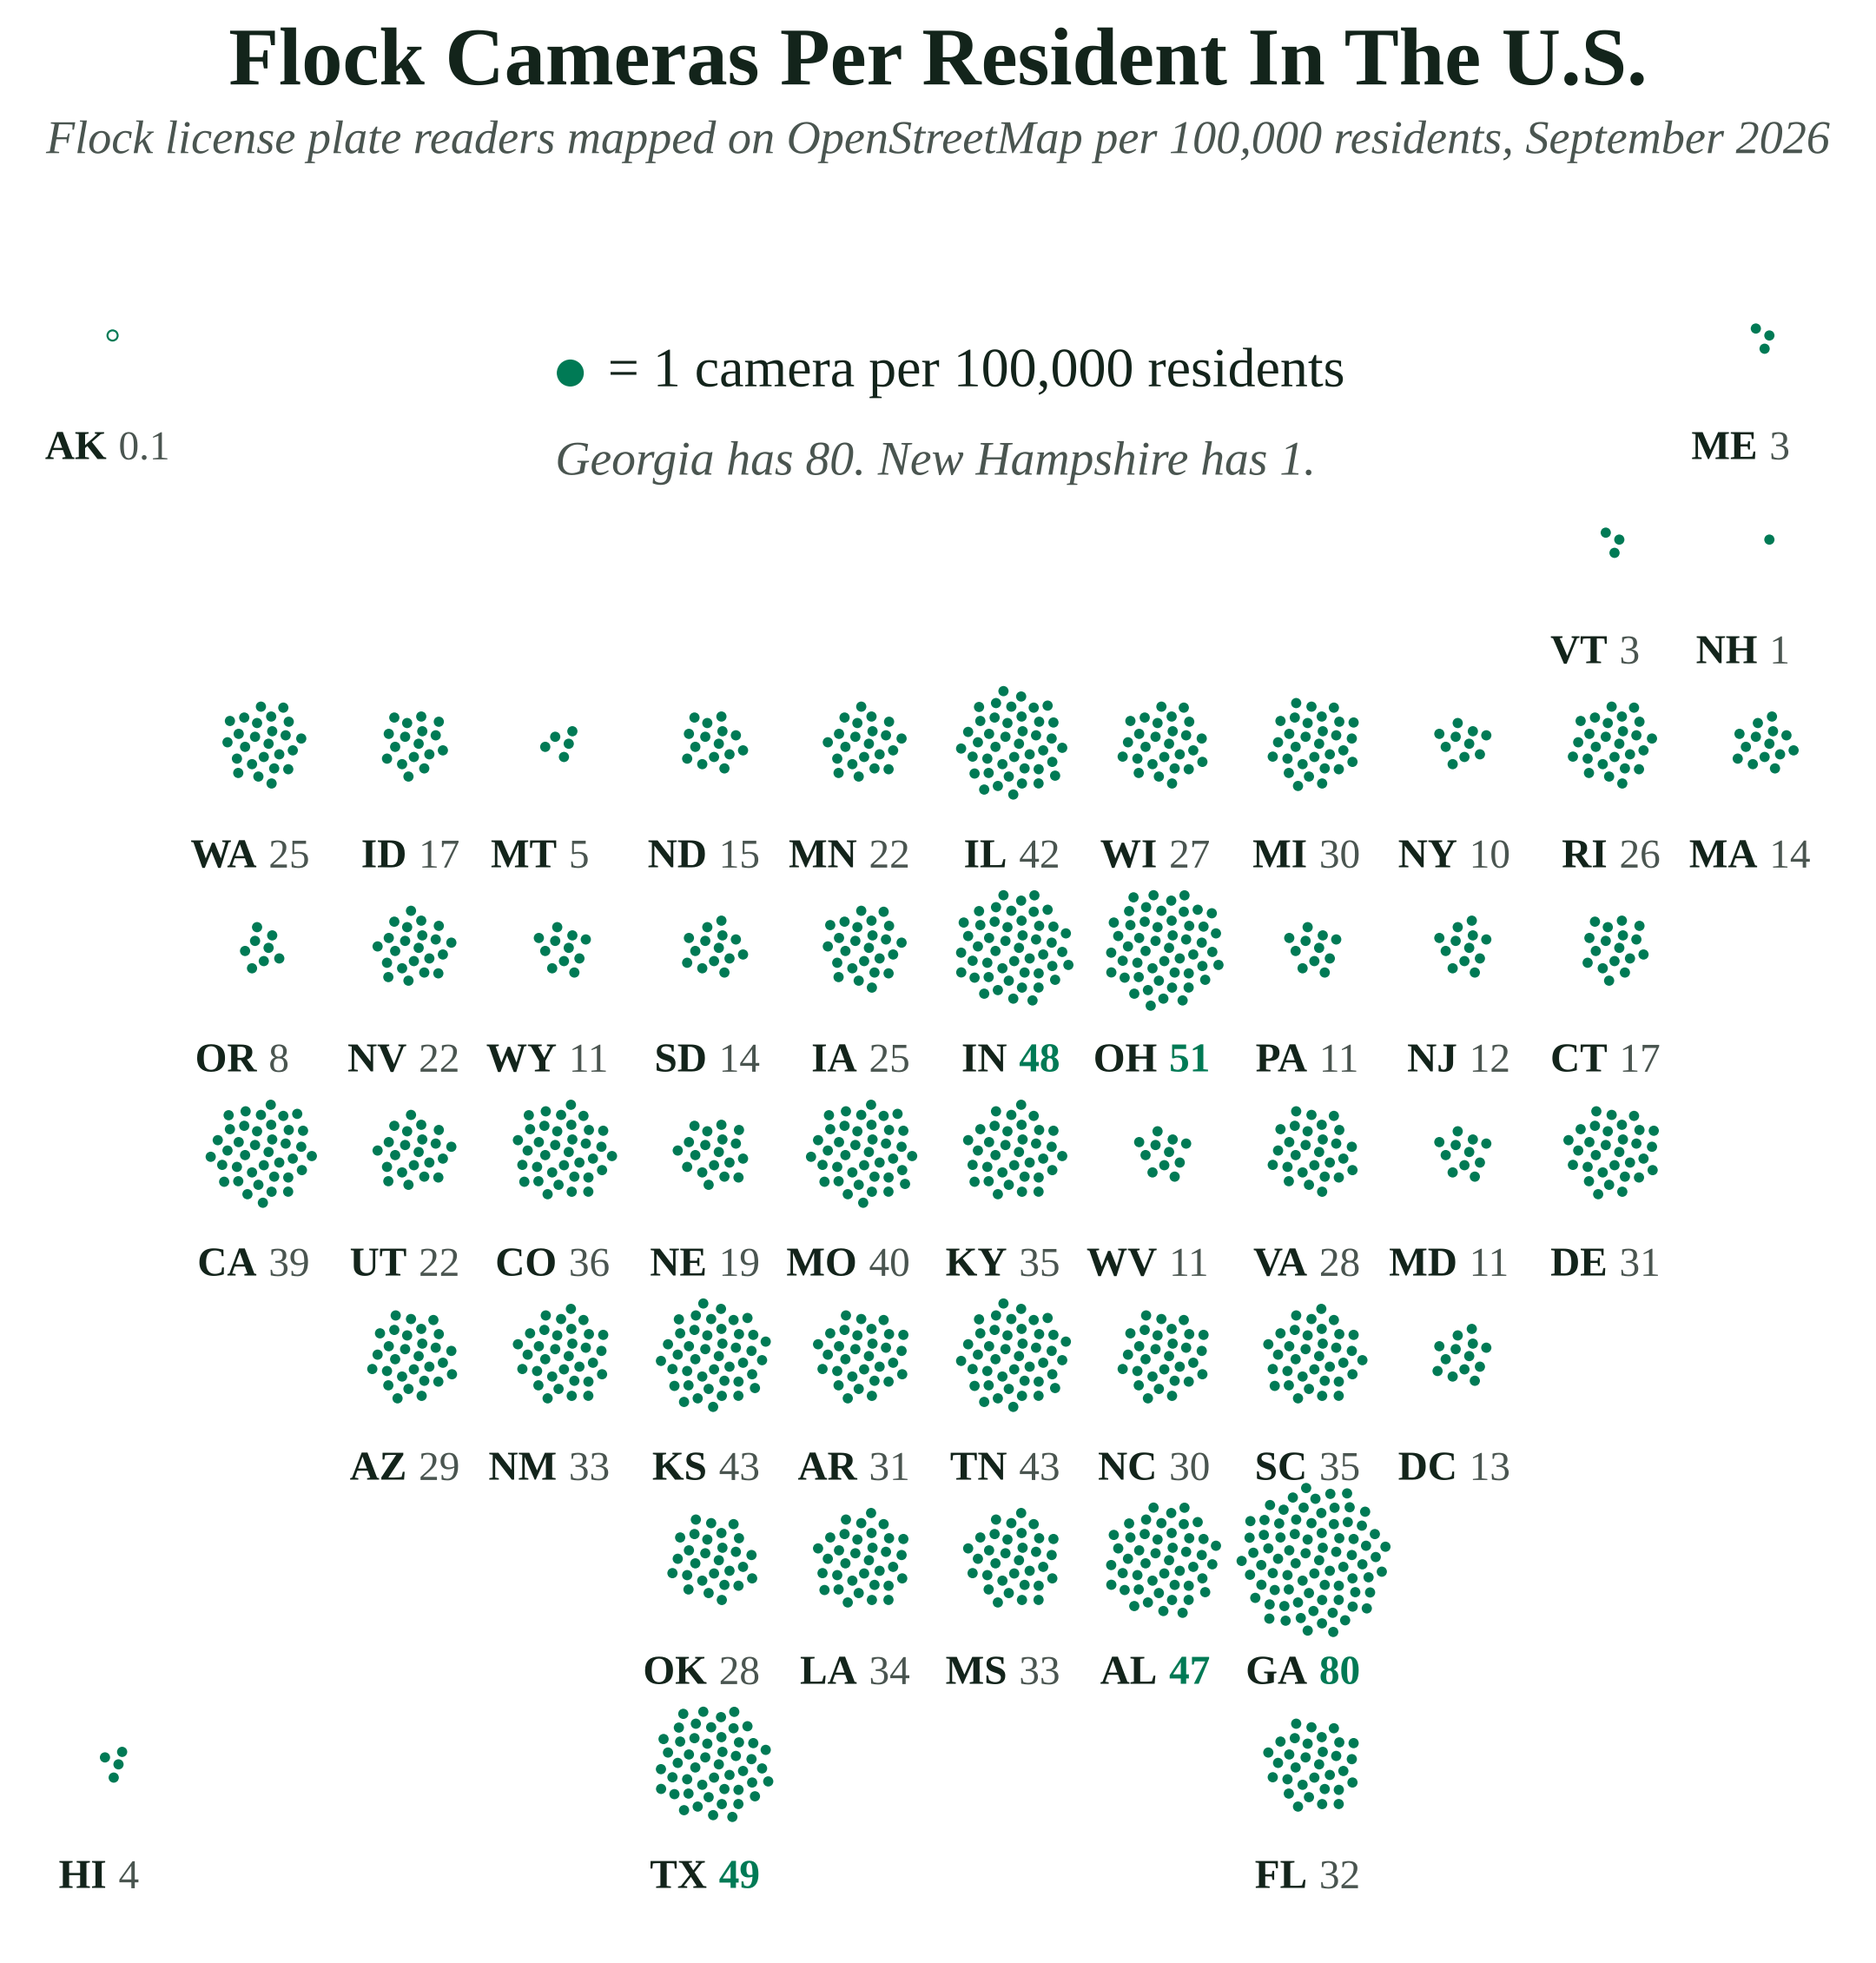
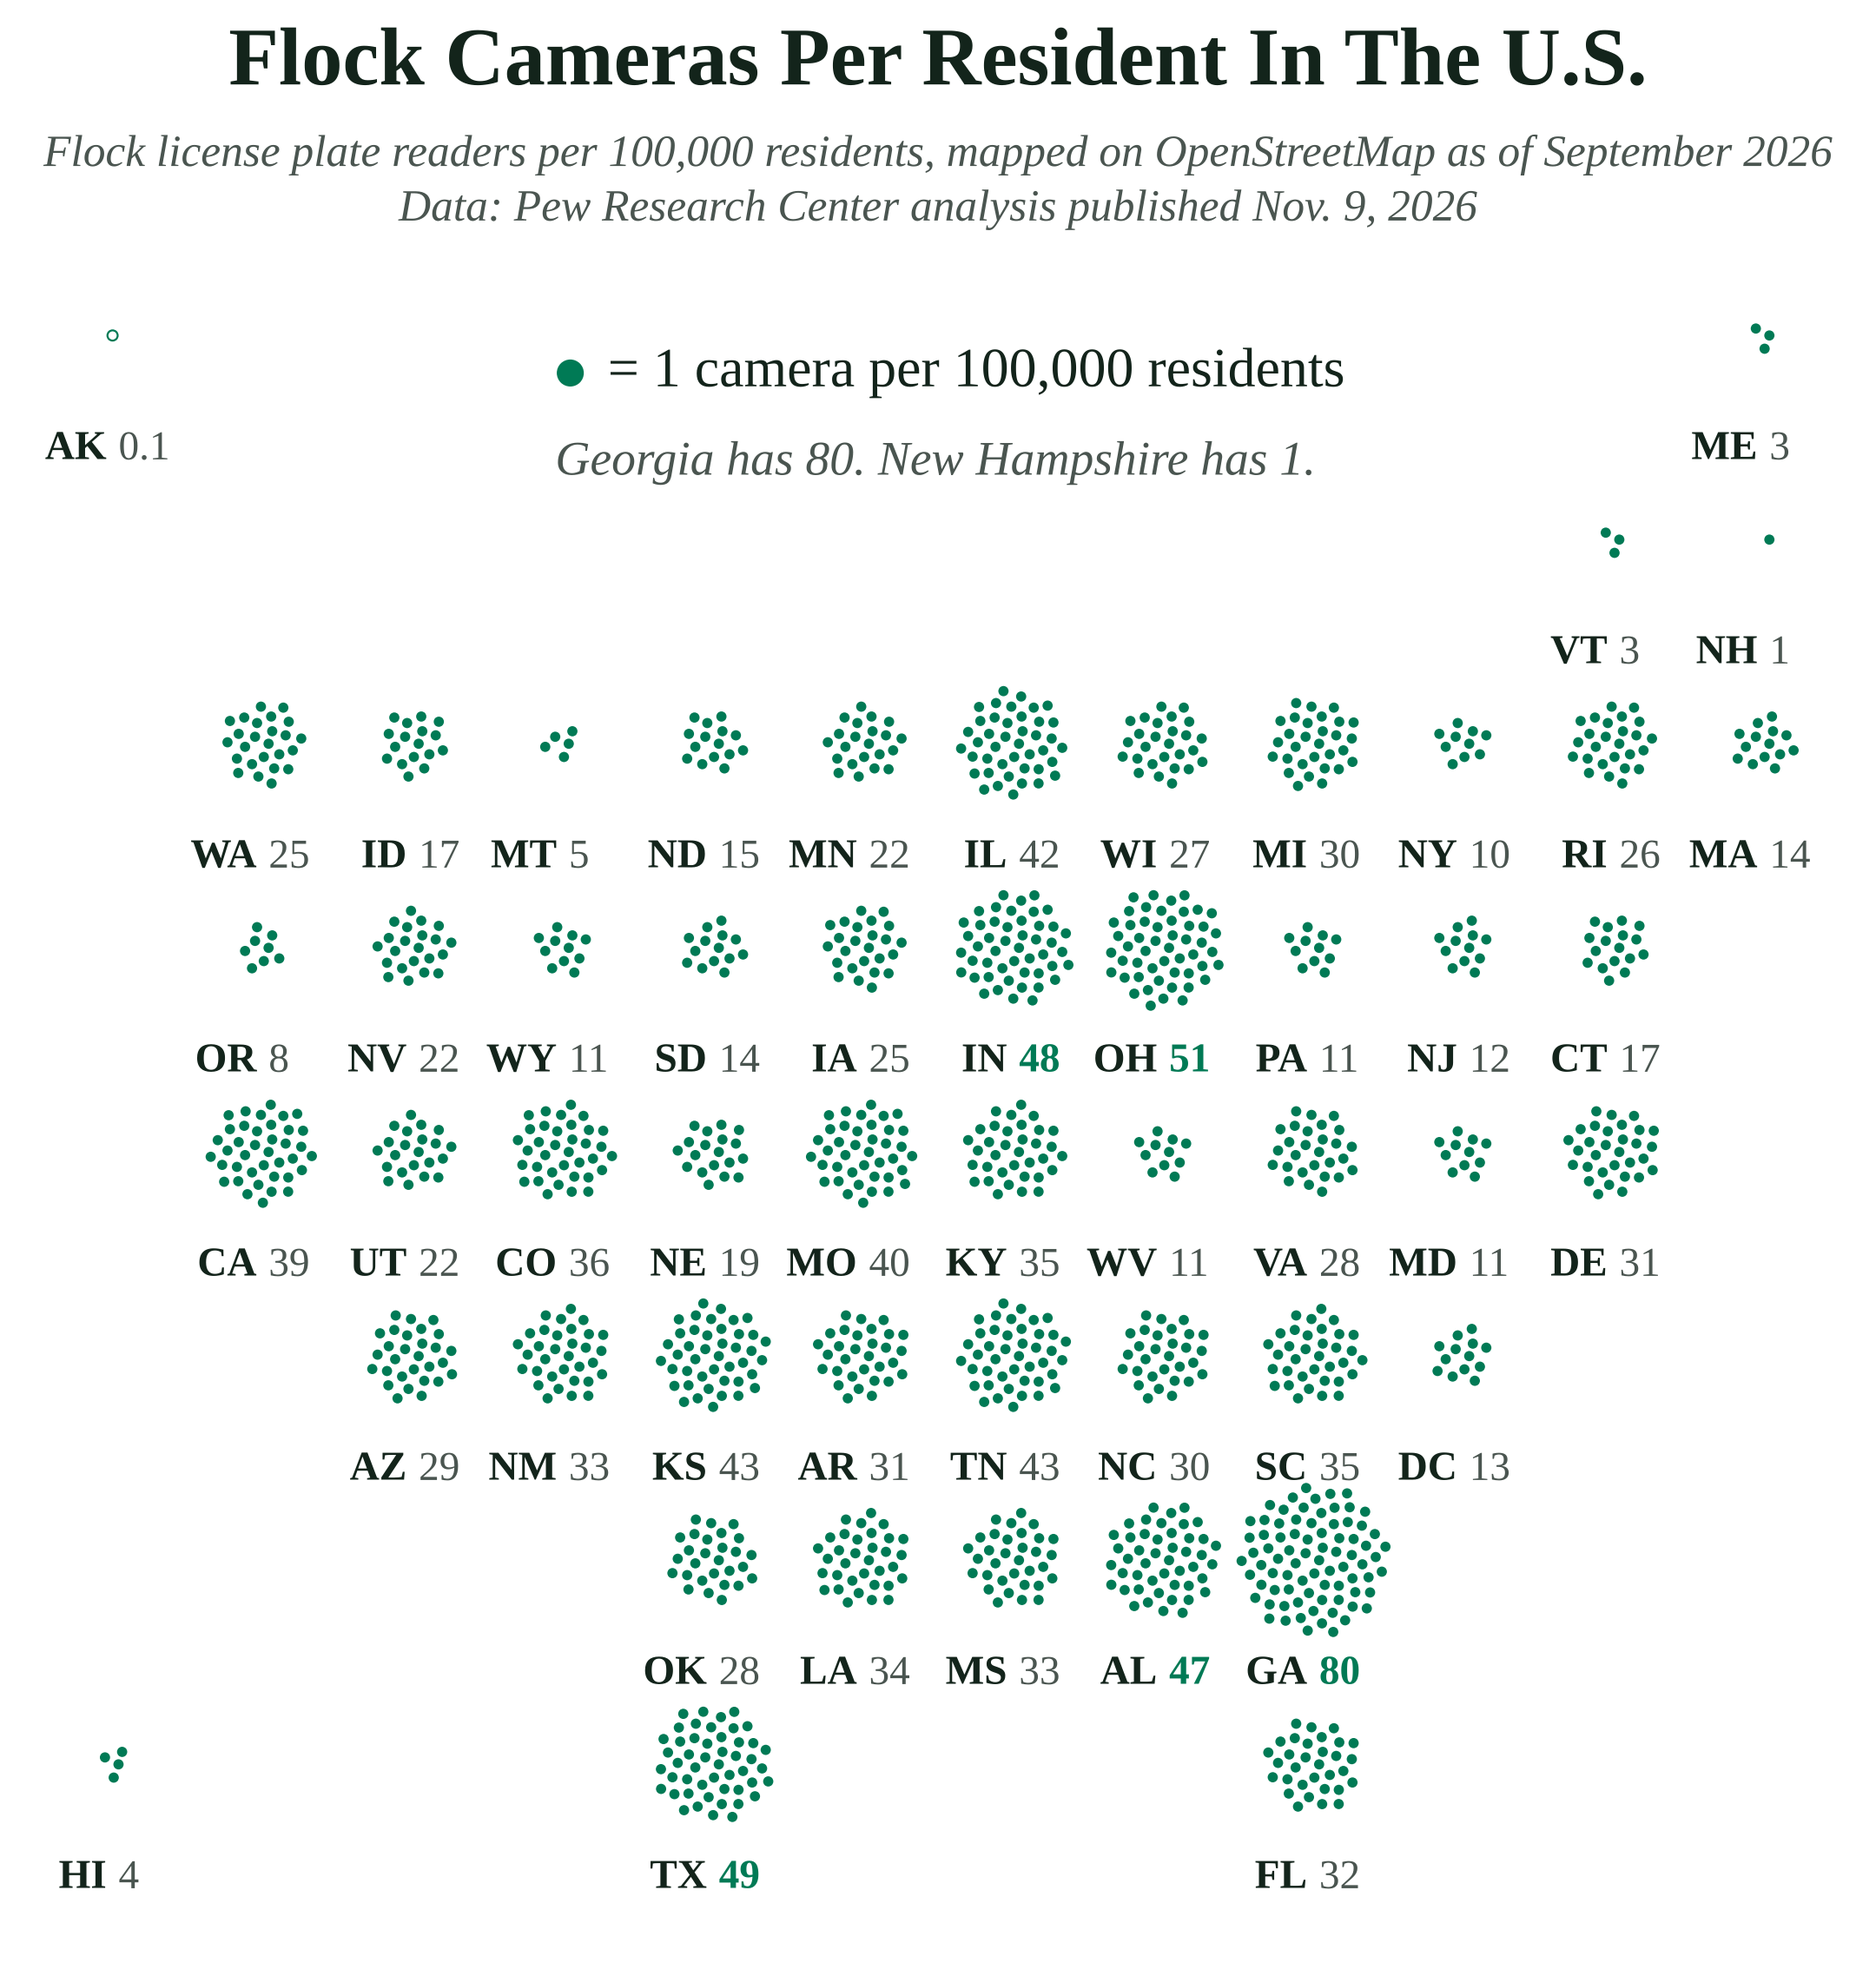
Flock figures: subtitle credits Pew analysis published Nov. 9, 2026
Claude-Session: https://claude.ai/code/session_014ps2HoqtiaDX9KtWWc6m6n

Changed region(s): [[0.031, 0.0619, 0.9926, 0.1239]]

diff --git a/flock/embed.js b/flock/embed.js
@@ -21,7 +21,7 @@ ID+' .card h4{margin:0 0 6px;font-size:1.15em}'+ID+' .card .row{display:flex;fle
 ID+' .card .row div b{display:block;font-family:Georgia,serif;font-size:22px;color:'+INK+'}'+
 ID+' .nt{font-size:12px;color:'+SUB+';margin-top:8px;font-family:-apple-system,"Helvetica Neue",Arial,sans-serif}';
 var st=document.createElement('style');st.textContent=css;document.head.appendChild(st);
-b.innerHTML='<div class="hd"><b>Flock Cameras Per Resident In The U.S.</b><span>Flock license plate cameras mapped on OpenStreetMap, September 2026. Tap a state.</span></div><div class="tg"><button data-m="r" class="on">Per 100,000 residents</button><button data-m="c">Total cameras</button></div><div class="key"></div><svg viewBox="0 -0.75 12 11.25"></svg><div class="card"></div><div class="nt">Counts come from a volunteer-built map and are likely an undercount. Flock says it has more than 120,000 cameras; this count found 109,577.</div>';
+b.innerHTML='<div class="hd"><b>Flock Cameras Per Resident In The U.S.</b><span>Flock license plate cameras mapped on OpenStreetMap, from a Pew Research Center analysis published Nov. 9, 2026. Tap a state.</span></div><div class="tg"><button data-m="r" class="on">Per 100,000 residents</button><button data-m="c">Total cameras</button></div><div class="key"></div><svg viewBox="0 -0.75 12 11.25"></svg><div class="card"></div><div class="nt">Counts come from a volunteer-built map and are likely an undercount. Flock says it has more than 120,000 cameras; this count found 109,577.</div>';
 var svg=b.querySelector('svg'),card=b.querySelector('.card'),key=b.querySelector('.key'),mode='r',sel=null,shown=false;
 function el(n,a,p){var e=document.createElementNS(NS,n);for(var k in a)e.setAttribute(k,a[k]);p.appendChild(e);return e}
 var N={};

diff --git a/flock/post-body.html b/flock/post-body.html
@@ -24,4 +24,4 @@
 <p>A high rate doesn't say who owns the cameras either. Police departments, homeowner associations and businesses all buy them, and the map lists an owner for only 12% of cameras.</p>
 <p class="nid-method"><em>How we counted: All figures come from Pew Research Center's Nov. 9, 2026, analysis. Camera counts are OpenStreetMap entries tagged as Flock Safety license plate readers, accessed Sept. 17, 2026 (109,577 in all), divided by Census Bureau 2025 population estimates. Rates in the charts are Pew's rounded figures; the 32 per 100,000 national rate is our calculation from Pew's state counts and populations. Portal figures are Pew's analysis of 1,517 agencies tracked by EyesOnFlock, accessed Sept. 21, 2026. In the interactive's total view, each dot is 200 cameras. <a href="https://www.pewresearch.org/short-reads/2026/11/09/what-we-know-and-dont-know-about-flocks-license-plate-cameras/">Pew Research Center</a>. <a href="https://stories.thenewsindata.com/data/georgia-has-80-flock-license-plate-cameras-per-100000-residents-the-most-of-any-state.csv">Download our data (CSV)</a>.</em></p>
 </div>
-<script src="https://stories.thenewsindata.com/flock/embed.js?v=3"></script>
+<script src="https://stories.thenewsindata.com/flock/embed.js?v=4"></script>

diff --git a/flock/index.html b/flock/index.html
@@ -24,4 +24,4 @@
 <p>A high rate doesn't say who owns the cameras either. Police departments, homeowner associations and businesses all buy them, and the map lists an owner for only 12% of cameras.</p>
 <p class="nid-method"><em>How we counted: All figures come from Pew Research Center's Nov. 9, 2026, analysis. Camera counts are OpenStreetMap entries tagged as Flock Safety license plate readers, accessed Sept. 17, 2026 (109,577 in all), divided by Census Bureau 2025 population estimates. Rates in the charts are Pew's rounded figures; the 32 per 100,000 national rate is our calculation from Pew's state counts and populations. Portal figures are Pew's analysis of 1,517 agencies tracked by EyesOnFlock, accessed Sept. 21, 2026. In the interactive's total view, each dot is 200 cameras. <a href="https://www.pewresearch.org/short-reads/2026/11/09/what-we-know-and-dont-know-about-flocks-license-plate-cameras/">Pew Research Center</a>. <a href="https://stories.thenewsindata.com/data/georgia-has-80-flock-license-plate-cameras-per-100000-residents-the-most-of-any-state.csv">Download our data (CSV)</a>.</em></p>
 </div>
-<script src="./embed.js?v=3"></script>
+<script src="./embed.js?v=4"></script>
